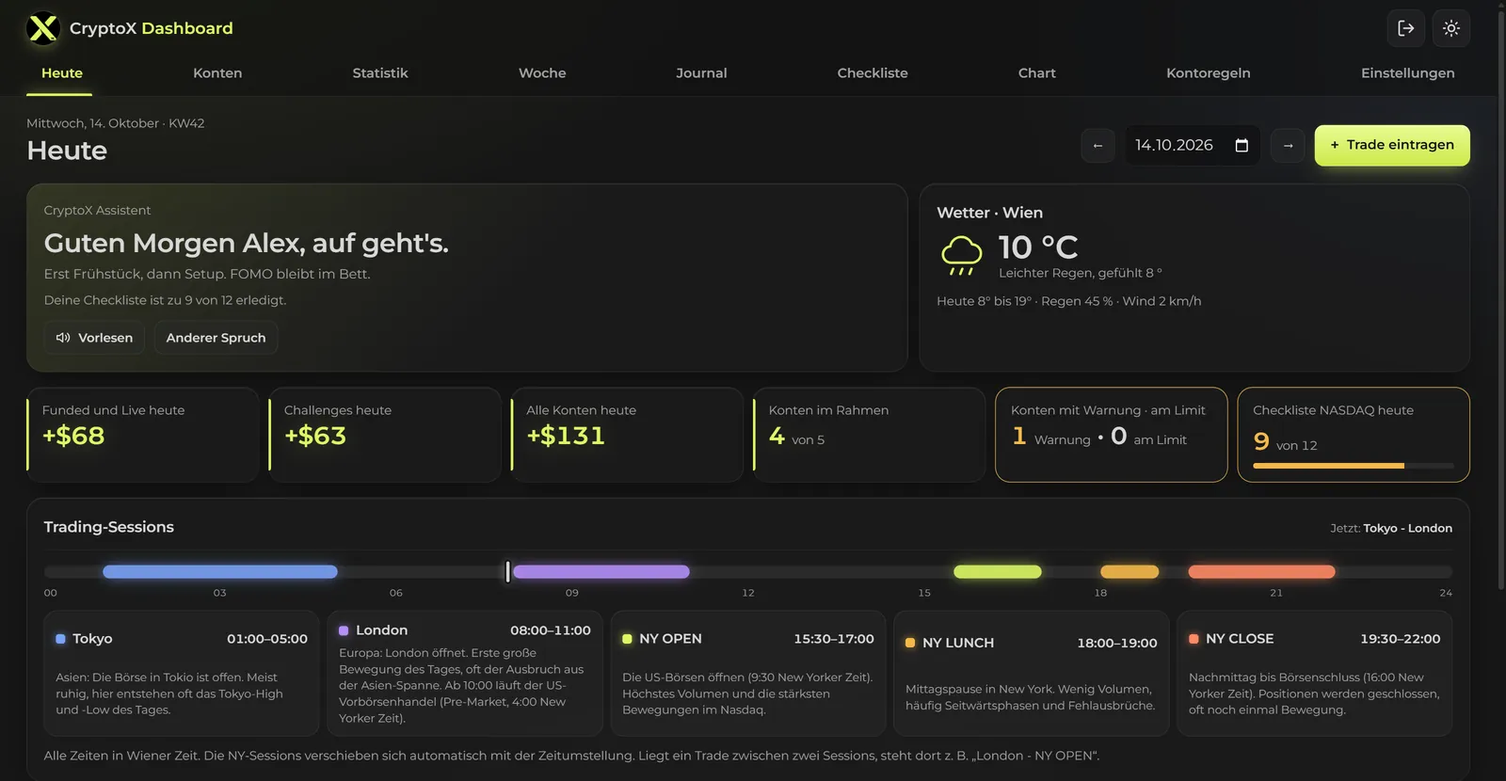
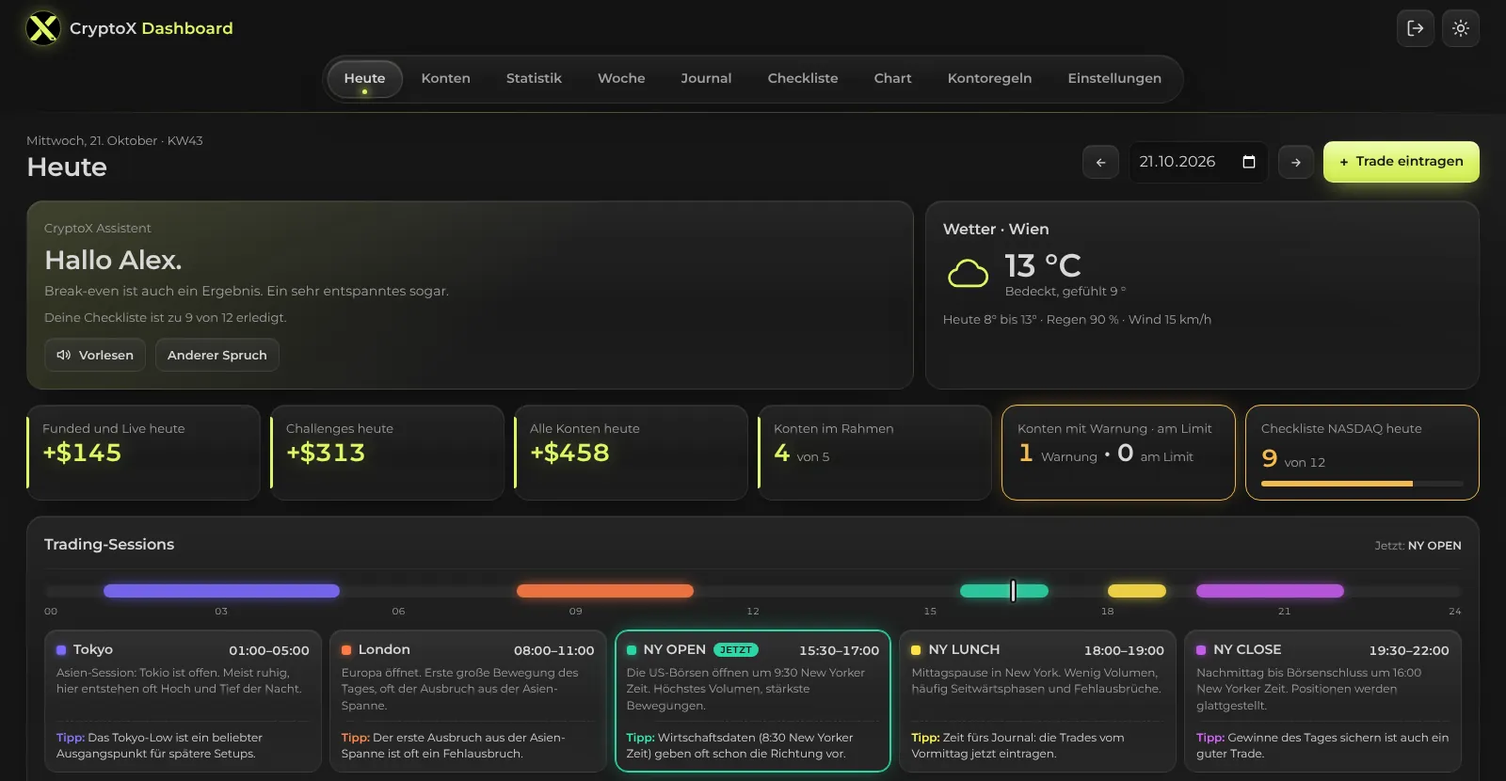
crypto-x.at: Fortschrittsbalken, Hero-Abstand, neue Dashboard-Bilder (#238)
* crypto-x.at: Fortschrittsbalken dünn, Hero mit Abstand, neue Dashboard-Bilder

Fortschrittsbalken wird abgeschnitten statt gestaucht (wie tim-kofler.at #219),
so bleibt der Leuchtschein eine dünne Linie. Das Dashboard-Fenster im Hero ist
rundum abgeschlossen und hat Luft zum Zahlenkasten. Alle Dashboard-Bilder neu
in der Glas-Optik, mit erfundenen Demo-Daten. Passende sizes für die
Handy-Bilder, Datenschutz-Link im Formular unterstrichen.

Claude-Session: https://claude.ai/code/session_01ECftty6yMTiCXhDQWzRpNz

* crypto-x.at: Scroll-Kapsel so breit wie der Inhalt (wie tim-kofler.at #240)

Claude-Session: https://claude.ai/code/session_01ECftty6yMTiCXhDQWzRpNz

---------

diff --git a/index.html b/index.html
@@ -21,8 +21,8 @@
   <link rel="icon" href="/assets/img/favicon.svg" type="image/svg+xml">
   <link rel="preload" href="/assets/fonts/unbounded.woff2" as="font" type="font/woff2" crossorigin>
   <link rel="preload" href="/assets/fonts/manrope.woff2" as="font" type="font/woff2" crossorigin>
-  <link rel="stylesheet" href="/assets/css/style.css?v=a3c770bf">
-  <link rel="stylesheet" href="/assets/css/fx.css?v=b59cf787">
+  <link rel="stylesheet" href="/assets/css/style.css?v=31da12d4">
+  <link rel="stylesheet" href="/assets/css/fx.css?v=bf43237c">
   <script type="application/ld+json">{"@context": "https://schema.org", "@graph": [{"@type": "ProfessionalService", "@id": "https://crypto-x.at/#unternehmen", "name": "Crypto X Solutions", "alternateName": "CryptoX", "url": "https://crypto-x.at/", "image": "https://crypto-x.at/assets/img/og-cryptox.jpg", "logo": "https://crypto-x.at/assets/img/logo-512.png", "email": "tk@crypto-x.at", "telephone": "+4367761773118", "address": {"@type": "PostalAddress", "streetAddress": "Lehen 2", "postalCode": "3281", "addressLocality": "Oberndorf an der Melk", "addressRegion": "Niederösterreich", "addressCountry": "AT"}, "areaServed": {"@type": "Country", "name": "Österreich"}, "founder": {"@id": "https://crypto-x.at/#tim"}, "description": "IT-Dienstleister aus Niederösterreich: Softwareentwicklung, Software-Schulungen und das CryptoX Dashboard für Prop-Firm-Trader.", "knowsAbout": ["Softwareentwicklung", "Prop Trading Tool", "Risikomanagement", "Trading-Software"], "sameAs": ["https://www.instagram.com/crypto_x_solutions/", "https://x.com/Crypto_X_Soln", "https://t.me/Crypto_X_Solutions", "https://g.page/r/CS2eZ1lg7mbtEBI"], "hasMap": "https://g.page/r/CS2eZ1lg7mbtEBI", "hasOfferCatalog": {"@type": "OfferCatalog", "name": "Leistungen", "itemListElement": [{"@type": "Offer", "itemOffered": {"@type": "Service", "name": "Softwareentwicklung", "description": "Individuelle Softwarelösungen wie Rechner, Auswertungen und Dashboards.", "areaServed": "AT"}}, {"@type": "Offer", "itemOffered": {"@type": "Service", "name": "Software-Schulungen", "description": "Schulungen zur technischen Einrichtung und Bedienung von Trading-Software.", "areaServed": "AT"}}, {"@type": "Offer", "itemOffered": {"@type": "Service", "name": "Risiko-Cockpit", "description": "Werkzeug für Risikomanagement im Futures- und Prop-Trading: Tageslimit, Positionsgröße, Checkliste und Trade-Log.", "areaServed": "AT"}}]}}, {"@type": "Person", "@id": "https://crypto-x.at/#tim", "name": "Tim Kofler", "jobTitle": "Softwareentwickler", "url": "https://crypto-x.at/ueber-mich/", "image": "https://crypto-x.at/assets/img/team/tim-portrait.webp", "worksFor": {"@id": "https://crypto-x.at/#unternehmen"}, "sameAs": ["https://www.instagram.com/crypto_x_solutions/", "https://x.com/Crypto_X_Soln", "https://t.me/Crypto_X_Solutions"]}, {"@type": "WebSite", "@id": "https://crypto-x.at/#website", "url": "https://crypto-x.at/", "name": "CryptoX", "inLanguage": "de-AT", "publisher": {"@id": "https://crypto-x.at/#unternehmen"}}]}</script>
 </head>
 <body>
@@ -78,9 +78,9 @@
     <div class="hero__shot reveal">
       <div class="window glass">
         <div class="window__bar"><i></i><i></i><i></i><span>CryptoX Dashboard · Demo-Daten</span></div>
-        <img src="/assets/img/dashboard/heute-1600.webp?v=f98479b8" srcset="/assets/img/dashboard/heute-960.webp?v=8f605e22 960w, /assets/img/dashboard/heute-1600.webp?v=f98479b8 1600w" sizes="(max-width: 1100px) 100vw, 1100px" alt="Tagesüberblick des CryptoX Dashboards mit Ergebnis aller Konten, Warnungen und Trading-Sessions" width="1600" height="830" fetchpriority="high">
+        <img src="/assets/img/dashboard/heute-1600.webp?v=f0af5555" srcset="/assets/img/dashboard/heute-960.webp?v=ab564073 960w, /assets/img/dashboard/heute-1600.webp?v=f0af5555 1600w" sizes="(max-width: 1100px) 100vw, 1100px" alt="Tagesüberblick des CryptoX Dashboards mit Ergebnis aller Konten, Warnungen und Trading-Sessions" width="1600" height="830" fetchpriority="high">
       </div>
-      <div class="hero__phone"><div class="phone"><img src="/assets/img/dashboard/handy-trade-600.webp?v=30f633b7" srcset="/assets/img/dashboard/handy-trade-300.webp?v=2899c89a 300w, /assets/img/dashboard/handy-trade-600.webp?v=30f633b7 600w" sizes="260px" alt="Trade am Smartphone eintragen" width="600" height="1333"></div></div>
+      <div class="hero__phone"><div class="phone"><img src="/assets/img/dashboard/handy-trade-600.webp?v=f23c286d" srcset="/assets/img/dashboard/handy-trade-300.webp?v=88f496b8 300w, /assets/img/dashboard/handy-trade-600.webp?v=f23c286d 600w" sizes="(max-width: 680px) 104px, (max-width: 1100px) 170px, 210px" alt="Trade am Smartphone eintragen" width="600" height="1333"></div></div>
     </div>
   </div>
 </section>
@@ -122,7 +122,7 @@
           <p>Ergebnis aller Konten, Konten im Rahmen oder mit Warnung, Fortschritt der Checkliste und die Trading-Sessions von Tokyo bis NY Close, automatisch an die Zeitumstellung angepasst.</p>
           <ul class="ticks"><li>Kacheln für Funded/Live, Challenges und alle Konten</li><li>Rückblick auf jeden früheren Handelstag</li><li>Wirtschaftskalender, übersetzte Schlagzeilen und Fed-Countdown</li><li>Begrüßung und Warnungen auf Wunsch vorgelesen</li></ul>
         </div>
-        <div class="tour__shot glass"><img src="/assets/img/dashboard/heute-1600.webp?v=f98479b8" srcset="/assets/img/dashboard/heute-960.webp?v=8f605e22 960w, /assets/img/dashboard/heute-1600.webp?v=f98479b8 1600w" sizes="(max-width: 900px) 100vw, 760px" alt="Tagesüberblick mit Ergebnis aller Konten und Trading-Sessions" width="1600" height="830" loading="lazy" decoding="async"></div>
+        <div class="tour__shot glass"><img src="/assets/img/dashboard/heute-1600.webp?v=f0af5555" srcset="/assets/img/dashboard/heute-960.webp?v=ab564073 960w, /assets/img/dashboard/heute-1600.webp?v=f0af5555 1600w" sizes="(max-width: 900px) 100vw, 760px" alt="Tagesüberblick mit Ergebnis aller Konten und Trading-Sessions" width="1600" height="830" loading="lazy" decoding="async"></div>
       </div>
       <div class="tour__panel" role="tabpanel" id="panel-konten" aria-labelledby="tab-konten">
         <div class="tour__text">
@@ -131,7 +131,7 @@
           <p>Eine Karte pro Konto mit Kontostand, Fortschritt und Puffer bis zu jeder Grenze. Warnungen stehen im Klartext da, bevor eine Regel bricht.</p>
           <ul class="ticks"><li>Beliebig viele Konten: Challenge, Funded oder Live</li><li>Messbalken für Tageslimit, Daily und Max Drawdown</li><li>Warnung wie „Nur noch $180 bis zur Drawdown-Grenze“</li><li>Kontostand anpassen, wenn du nicht jeden Trade einträgst</li></ul>
         </div>
-        <div class="tour__shot glass"><img src="/assets/img/dashboard/konten-1600.webp?v=e9aa9c13" srcset="/assets/img/dashboard/konten-960.webp?v=ae97ad49 960w, /assets/img/dashboard/konten-1600.webp?v=e9aa9c13 1600w" sizes="(max-width: 900px) 100vw, 760px" alt="Prop-Firm-Konten mit Drawdown, Tageslimit und Fortschritt" width="1600" height="1006" loading="lazy" decoding="async"></div>
+        <div class="tour__shot glass"><img src="/assets/img/dashboard/konten-1600.webp?v=366833ac" srcset="/assets/img/dashboard/konten-960.webp?v=8c5f8067 960w, /assets/img/dashboard/konten-1600.webp?v=366833ac 1600w" sizes="(max-width: 900px) 100vw, 760px" alt="Prop-Firm-Konten mit Drawdown, Tageslimit und Fortschritt" width="1600" height="1006" loading="lazy" decoding="async"></div>
       </div>
       <div class="tour__panel" role="tabpanel" id="panel-regeln" aria-labelledby="tab-regeln">
         <div class="tour__text">
@@ -140,7 +140,7 @@
           <p>Du hinterlegst für jedes Konto die Regeln, die wirklich gelten. Das Dashboard rechnet sie bei jedem Trade automatisch mit.</p>
           <ul class="ticks"><li>Trailing Drawdown (EOD) mit optionalem Lock oder statisch</li><li>Daily Loss Limit der Firma und eigenes Tageslimit</li><li>Konsistenzregel, Mindest-Handelstage, Gewinnziel und Frist</li><li>Auszahlungsrechner für Funded- und Live-Konten</li></ul>
         </div>
-        <div class="tour__shot glass"><img src="/assets/img/dashboard/regeln-1600.webp?v=0ea13e23" srcset="/assets/img/dashboard/regeln-960.webp?v=7fefca23 960w, /assets/img/dashboard/regeln-1600.webp?v=0ea13e23 1600w" sizes="(max-width: 900px) 100vw, 760px" alt="Regeln eines Kontos einstellen" width="1600" height="1000" loading="lazy" decoding="async"></div>
+        <div class="tour__shot glass"><img src="/assets/img/dashboard/regeln-1600.webp?v=ca87e21c" srcset="/assets/img/dashboard/regeln-960.webp?v=b5657e53 960w, /assets/img/dashboard/regeln-1600.webp?v=ca87e21c 1600w" sizes="(max-width: 900px) 100vw, 760px" alt="Regeln eines Kontos einstellen" width="1600" height="1000" loading="lazy" decoding="async"></div>
       </div>
       <div class="tour__panel" role="tabpanel" id="panel-trade" aria-labelledby="tab-trade">
         <div class="tour__text">
@@ -149,7 +149,7 @@
           <p>Konten anhaken, Kontrakte pro Konto wählen, fertig. Punkte, Ergebnis und Session rechnet das Dashboard selbst aus, jeder Wert lässt sich überschreiben.</p>
           <ul class="ticks"><li>Ein Trade auf beliebig vielen Konten gleichzeitig</li><li>Netto-Ergebnis live über alle gewählten Konten</li><li>13 Instrumente vorinstalliert, eigene beliebig ergänzbar</li><li>Import von Trades als JSON-Datei mit Duplikat-Erkennung</li></ul>
         </div>
-        <div class="tour__shot glass"><img src="/assets/img/dashboard/trade-1600.webp?v=24fc31db" srcset="/assets/img/dashboard/trade-960.webp?v=90048451 960w, /assets/img/dashboard/trade-1600.webp?v=24fc31db 1600w" sizes="(max-width: 900px) 100vw, 760px" alt="Trade auf mehreren Konten gleichzeitig eintragen" width="1600" height="1000" loading="lazy" decoding="async"></div>
+        <div class="tour__shot glass"><img src="/assets/img/dashboard/trade-1600.webp?v=aba2b192" srcset="/assets/img/dashboard/trade-960.webp?v=02d1c67f 960w, /assets/img/dashboard/trade-1600.webp?v=aba2b192 1600w" sizes="(max-width: 900px) 100vw, 760px" alt="Trade auf mehreren Konten gleichzeitig eintragen" width="1600" height="1000" loading="lazy" decoding="async"></div>
       </div>
       <div class="tour__panel" role="tabpanel" id="panel-statistik" aria-labelledby="tab-statistik">
         <div class="tour__text">
@@ -158,7 +158,7 @@
           <p>Kennzahlen pro Konto, für alle Challenges oder alle Funded-Konten, für jeden Zeitraum. Dazu Wochenübersicht und ein Journal mit CSV-Export.</p>
           <ul class="ticks"><li>Trefferquote, Profitfaktor und Erwartungswert pro Trade</li><li>P&amp;L-Kalender als Heatmap mit Wochensumme</li><li>Auswertung nach Entry-Typ, Haltedauer und Session</li><li>Derselbe Trade auf mehreren Konten zählt nur einmal</li></ul>
         </div>
-        <div class="tour__shot glass"><img src="/assets/img/dashboard/statistik-1600.webp?v=3347d251" srcset="/assets/img/dashboard/statistik-960.webp?v=a8933a0b 960w, /assets/img/dashboard/statistik-1600.webp?v=3347d251 1600w" sizes="(max-width: 900px) 100vw, 760px" alt="Trading-Statistik mit Trefferquote, Profitfaktor und P&amp;L-Kalender" width="1600" height="1000" loading="lazy" decoding="async"></div>
+        <div class="tour__shot glass"><img src="/assets/img/dashboard/statistik-1600.webp?v=5b136e12" srcset="/assets/img/dashboard/statistik-960.webp?v=ce16e687 960w, /assets/img/dashboard/statistik-1600.webp?v=5b136e12 1600w" sizes="(max-width: 900px) 100vw, 760px" alt="Trading-Statistik mit Trefferquote, Profitfaktor und P&amp;L-Kalender" width="1600" height="1000" loading="lazy" decoding="async"></div>
       </div>
       <div class="tour__panel" role="tabpanel" id="panel-checkliste" aria-labelledby="tab-checkliste">
         <div class="tour__text">
@@ -167,7 +167,7 @@
           <p>Mehrere Checklisten, zum Beispiel eine pro Markt. Punkte legst du selbst an, benennst sie um, sortierst oder löschst sie.</p>
           <ul class="ticks"><li>Eigene Punkte und Auswahlfelder wie Trend Woche/Tag/H4</li><li>News und Termine des Tages, eigener Zustand, Notizen</li><li>Farbe zeigt den Fortschritt, speichert automatisch</li><li>Verlauf: Plan eingehalten oder Checkliste unvollständig</li></ul>
         </div>
-        <div class="tour__shot glass"><img src="/assets/img/dashboard/checkliste-1600.webp?v=e17dcc1a" srcset="/assets/img/dashboard/checkliste-960.webp?v=6e3bcff3 960w, /assets/img/dashboard/checkliste-1600.webp?v=e17dcc1a 1600w" sizes="(max-width: 900px) 100vw, 760px" alt="Checkliste vor dem Trade mit Verlauf" width="1600" height="1006" loading="lazy" decoding="async"></div>
+        <div class="tour__shot glass"><img src="/assets/img/dashboard/checkliste-1600.webp?v=7eeff7d7" srcset="/assets/img/dashboard/checkliste-960.webp?v=c013c521 960w, /assets/img/dashboard/checkliste-1600.webp?v=7eeff7d7 1600w" sizes="(max-width: 900px) 100vw, 760px" alt="Checkliste vor dem Trade mit Verlauf" width="1600" height="1006" loading="lazy" decoding="async"></div>
       </div>
     </div>
     <p class="note-legal">Bilder aus einer Demo-Installation mit erfundenen Daten. Firmennamen in den Bildern sind Beispiel-Bezeichnungen der Demo-Konten, es besteht keine Partnerschaft. Das Dashboard ist ein Werkzeug zur Selbstkontrolle, <strong>keine Anlageberatung und keine Handelsplattform</strong>: Es führt keine Trades aus und verbindet sich mit keinem Broker.</p>
@@ -188,9 +188,9 @@
       </ul>
     </div>
     <div class="mobile__phones">
-      <div class="reveal"><div class="phone"><img src="/assets/img/dashboard/handy-heute-600.webp?v=f0038aba" srcset="/assets/img/dashboard/handy-heute-300.webp?v=5e0bfaf2 300w, /assets/img/dashboard/handy-heute-600.webp?v=f0038aba 600w" sizes="260px" alt="Tagesüberblick am Smartphone" width="600" height="1333" loading="lazy" decoding="async"></div></div>
-      <div class="reveal"><div class="phone"><img src="/assets/img/dashboard/handy-checkliste-600.webp?v=aa0e7ce4" srcset="/assets/img/dashboard/handy-checkliste-300.webp?v=06558ab9 300w, /assets/img/dashboard/handy-checkliste-600.webp?v=aa0e7ce4 600w" sizes="260px" alt="Checkliste am Smartphone" width="600" height="1333" loading="lazy" decoding="async"></div></div>
-      <div class="reveal"><div class="phone"><img src="/assets/img/dashboard/handy-statistik-600.webp?v=1ddd5401" srcset="/assets/img/dashboard/handy-statistik-300.webp?v=e6ed986a 300w, /assets/img/dashboard/handy-statistik-600.webp?v=1ddd5401 600w" sizes="260px" alt="Statistik am Smartphone" width="600" height="1333" loading="lazy" decoding="async"></div></div>
+      <div class="reveal"><div class="phone"><img src="/assets/img/dashboard/handy-heute-600.webp?v=2c37d0f8" srcset="/assets/img/dashboard/handy-heute-300.webp?v=fa1c8826 300w, /assets/img/dashboard/handy-heute-600.webp?v=2c37d0f8 600w" sizes="(max-width: 680px) 110px, 220px" alt="Tagesüberblick am Smartphone" width="600" height="1333" loading="lazy" decoding="async"></div></div>
+      <div class="reveal"><div class="phone"><img src="/assets/img/dashboard/handy-checkliste-600.webp?v=fabc8939" srcset="/assets/img/dashboard/handy-checkliste-300.webp?v=07abf834 300w, /assets/img/dashboard/handy-checkliste-600.webp?v=fabc8939 600w" sizes="(max-width: 680px) 110px, 220px" alt="Checkliste am Smartphone" width="600" height="1333" loading="lazy" decoding="async"></div></div>
+      <div class="reveal"><div class="phone"><img src="/assets/img/dashboard/handy-statistik-600.webp?v=dc71214f" srcset="/assets/img/dashboard/handy-statistik-300.webp?v=21d677b0 300w, /assets/img/dashboard/handy-statistik-600.webp?v=dc71214f 600w" sizes="(max-width: 680px) 110px, 220px" alt="Statistik am Smartphone" width="600" height="1333" loading="lazy" decoding="async"></div></div>
     </div>
   </div>
 </section>
@@ -509,7 +509,7 @@
 </footer>
 
 <script src="/assets/js/main.js?v=8c3680ab"></script>
-<script src="/assets/js/fx.js?v=e97bb7f9"></script>
+<script src="/assets/js/fx.js?v=1e196b98"></script>
 <script src="/assets/js/forms.js?v=184c4983"></script>
 <script type="module" src="/assets/js/x3d.js?v=9a384165"></script>
 </body>

diff --git a/prop-trading-tool/index.html b/prop-trading-tool/index.html
@@ -21,8 +21,8 @@
   <link rel="icon" href="/assets/img/favicon.svg" type="image/svg+xml">
   <link rel="preload" href="/assets/fonts/unbounded.woff2" as="font" type="font/woff2" crossorigin>
   <link rel="preload" href="/assets/fonts/manrope.woff2" as="font" type="font/woff2" crossorigin>
-  <link rel="stylesheet" href="/assets/css/style.css?v=a3c770bf">
-  <link rel="stylesheet" href="/assets/css/fx.css?v=b59cf787">
+  <link rel="stylesheet" href="/assets/css/style.css?v=31da12d4">
+  <link rel="stylesheet" href="/assets/css/fx.css?v=bf43237c">
   <script type="application/ld+json">{"@context": "https://schema.org", "@graph": [{"@type": "SoftwareApplication", "name": "CryptoX Risiko-Cockpit", "applicationCategory": "BusinessApplication", "operatingSystem": "Web-Browser", "url": "https://crypto-x.at/prop-trading-tool/", "author": {"@id": "https://crypto-x.at/#unternehmen"}, "description": "Dashboard für Prop-Firm-Trader: rechnet für beliebig viele Konten Drawdown (EOD oder statisch), Tageslimit, Konsistenzregel, Mindest-Handelstage, Gewinnziel und Auszahlung mit, mit Trading-Journal, Statistik, Checklisten und Wirtschaftskalender. Live-Demo mit Tageslimit, Positionsgrößen-Rechner, Checkliste und Trade-Log."}, {"@type": "FAQPage", "mainEntity": [{"@type": "Question", "name": "Was ist das Risiko-Cockpit?", "acceptedAnswer": {"@type": "Answer", "text": "Ein Werkzeug im Browser, das dein Tageslimit, deine Positionsgröße, eine Checkliste vor dem Einstieg und dein Trade-Log in einer Ansicht zeigt. Es rechnet ausschließlich mit deinen eigenen Eingaben."}}, {"@type": "Question", "name": "Gibt das Tool Handelssignale oder Empfehlungen?", "acceptedAnswer": {"@type": "Answer", "text": "Nein. Das Cockpit gibt keine Signale, keine Empfehlungen und keine Prognosen. Es hilft dir nur, deine eigenen Regeln und die Regeln deines Kontos im Blick zu behalten. Die Entscheidungen triffst du selbst."}}, {"@type": "Question", "name": "Für welche Konten und Instrumente ist es gedacht?", "acceptedAnswer": {"@type": "Answer", "text": "Für Futures-Konten mit festen Regeln wie Tagesverlustlimit und Drawdown, wie sie bei Prop-Firm-Evaluierungen üblich sind. Der Rechner kennt die Punktwerte von MNQ, NQ, MES und ES."}}, {"@type": "Question", "name": "Muss ich mich anmelden oder etwas installieren?", "acceptedAnswer": {"@type": "Answer", "text": "Für die Live-Demo nicht. Sie läuft direkt im Browser, am Computer und am Handy. Beta-Tester erhalten einen eigenen Zugang zum vollen Dashboard."}}, {"@type": "Question", "name": "Wo werden meine Daten gespeichert?", "acceptedAnswer": {"@type": "Answer", "text": "In der Live-Demo nur im lokalen Speicher deines Browsers. Es wird nichts an CryptoX übertragen. Details stehen in der Datenschutzerklärung."}}, {"@type": "Question", "name": "Wie werde ich Beta-Tester?", "acceptedAnswer": {"@type": "Answer", "text": "Melde dich per E-Mail oder Telegram, am besten mit deiner Plattform und deinem Erfahrungsstand. Als Beta-Tester nutzt du das volle Dashboard und gibst Feedback, was funktioniert und was fehlt."}}]}]}</script>
 </head>
 <body>
@@ -135,7 +135,7 @@
       </div>
       <p>Die Live-Demo zeigt die Grundidee. Das volle CryptoX Dashboard rechnet für beliebig viele Prop-Konten Drawdown, Tageslimit, Konsistenzregel, Handelstage und Auszahlung mit und warnt, bevor eine Regel bricht. Konten, Regeln, Checklisten und Instrumente stellst du selbst ein.</p>
     </div>
-    <div class="tour__shot glass" style="margin-bottom:40px"><img src="/assets/img/dashboard/konten-1600.webp?v=e9aa9c13" srcset="/assets/img/dashboard/konten-960.webp?v=ae97ad49 960w, /assets/img/dashboard/konten-1600.webp?v=e9aa9c13 1600w" sizes="(max-width: 1100px) 100vw, 1100px" alt="Prop-Firm-Konten mit Drawdown, Tageslimit und Fortschritt im CryptoX Dashboard" width="1600" height="1006" loading="lazy" decoding="async"></div>
+    <div class="tour__shot glass" style="margin-bottom:40px"><img src="/assets/img/dashboard/konten-1600.webp?v=366833ac" srcset="/assets/img/dashboard/konten-960.webp?v=8c5f8067 960w, /assets/img/dashboard/konten-1600.webp?v=366833ac 1600w" sizes="(max-width: 1100px) 100vw, 1100px" alt="Prop-Firm-Konten mit Drawdown, Tageslimit und Fortschritt im CryptoX Dashboard" width="1600" height="1006" loading="lazy" decoding="async"></div>
     <div class="modules">
       <div class="module"><b>Regel-Engine</b><span>Trailing (EOD) oder statischer Drawdown, Daily Loss, Konsistenz, Handelstage, Gewinnziel und Frist je Konto</span></div>
       <div class="module"><b>Beliebig viele Konten</b><span>Challenge, Funded und Live mit Ampel und Warnungen im Klartext</span></div>
@@ -256,6 +256,6 @@
 </footer>
 
 <script src="/assets/js/main.js?v=8c3680ab"></script>
-<script src="/assets/js/fx.js?v=e97bb7f9"></script>
+<script src="/assets/js/fx.js?v=1e196b98"></script>
 </body>
 </html>

diff --git a/assets/css/style.css b/assets/css/style.css
@@ -107,7 +107,7 @@ p { margin: 0 0 18px; }
 }
 
 /* Hero */
-.hero { position: relative; padding: 110px 0 0; overflow: hidden; }
+.hero { position: relative; padding: 110px 0 72px; overflow: hidden; }
 .hero__inner { position: relative; text-align: center; }
 .hero__badge {
   display: inline-flex; align-items: center; gap: 10px; padding: 6px 14px 6px 6px; border-radius: 999px;
@@ -131,7 +131,7 @@ p { margin: 0 0 18px; }
 .window__bar i { width: 10px; height: 10px; border-radius: 50%; background: var(--line-2); }
 .window__bar i:first-child { background: var(--lime); }
 .window__bar span { margin-left: 10px; font-family: var(--mono); font-size: .75rem; color: var(--muted); }
-.hero__shot .window { border-bottom: 0; border-radius: 18px 18px 0 0; }
+.hero__shot .window { border-radius: 18px; }
 
 /* Zahlenleiste */
 .figures { display: grid; grid-template-columns: repeat(4, 1fr); border-top: 1px solid var(--line); border-bottom: 1px solid var(--line); }
@@ -286,7 +286,7 @@ p { margin: 0 0 18px; }
   body { font-size: 16px; }
   .container { padding: 0 16px; }
   .section { padding: 80px 0; }
-  .hero { padding-top: 64px; }
+  .hero { padding-top: 64px; padding-bottom: 44px; }
   .hero__shot { margin-top: 56px; }
   .xgrid { grid-template-columns: 1fr; }
   .xcell { min-height: 0; padding: 36px 24px; border-right: 0 !important; border-bottom: 1px solid var(--line); }
@@ -372,7 +372,7 @@ main p a:not(.btn), main li a:not(.btn), .faq__item p a, .glance dd a { text-dec
 .glass img { display: block; width: 100%; height: auto; }
 
 /* Hero: Fenster + schwebendes Handy */
-.hero__shot .window.glass { border-radius: 18px 18px 0 0; border-bottom: 0; }
+.hero__shot .window.glass { border-radius: 18px; }
 .hero__phone { position: absolute; right: -3%; bottom: 3%; width: 210px; z-index: 3; animation: float 7s ease-in-out infinite; }
 @keyframes float { 0%, 100% { transform: translateY(0) rotate(-2deg); } 50% { transform: translateY(-14px) rotate(-1deg); } }
 
@@ -480,6 +480,7 @@ main p a:not(.btn), main li a:not(.btn), .faq__item p a, .glance dd a { text-dec
 .form ::placeholder { color: #6f6f6f; }
 .form__check { display: grid; grid-template-columns: 22px 1fr; gap: 12px; align-items: start; font-size: .92rem; color: var(--muted); line-height: 1.55; cursor: pointer; }
 .form__check input { width: 20px; height: 20px; margin: 2px 0 0; accent-color: var(--lime); cursor: pointer; }
+.form__check a { text-decoration: underline; text-underline-offset: 3px; }
 .form .btn { justify-self: start; margin-top: 6px; }
 .form .btn:disabled { opacity: .6; cursor: wait; }
 .form__status { margin: 0; padding: 12px 16px; border-radius: 12px; font-size: .95rem; }
@@ -551,7 +552,7 @@ main p a:not(.btn), main li a:not(.btn), .faq__item p a, .glance dd a { text-dec
   /* Gleiche Gesamthöhe wie oben (76px), damit beim Umschalten nichts springt */
   html.js .header.is-pill { background: transparent; border-bottom-color: transparent; -webkit-backdrop-filter: none; backdrop-filter: none; pointer-events: none; }
   html.js .header.is-pill::after { opacity: 0; }
-  .header.is-pill .header__inner { pointer-events: auto; height: 58px; max-width: 1000px; margin: 10px auto 8px; padding: 0 8px 0 18px;
+  .header.is-pill .header__inner { pointer-events: auto; height: 58px; width: calc(100% - 64px); max-width: calc(var(--max) - 64px); margin: 10px auto 8px; padding: 0 8px 0 18px;
     background: linear-gradient(180deg, rgba(255,255,255,.07), rgba(255,255,255,.015)), rgba(15,15,15,.9); -webkit-backdrop-filter: blur(16px) saturate(1.4); backdrop-filter: blur(16px) saturate(1.4);
     border-color: rgba(220,247,99,.32); box-shadow: inset 0 1px 0 rgba(255,255,255,.1), 0 18px 50px rgba(0,0,0,.6), 0 0 30px rgba(220,247,99,.12);
     transform: translateY(10px); animation: x-pill-in .6s cubic-bezier(.2,.8,.2,1); }

diff --git a/softwareentwicklung/index.html b/softwareentwicklung/index.html
@@ -21,8 +21,8 @@
   <link rel="icon" href="/assets/img/favicon.svg" type="image/svg+xml">
   <link rel="preload" href="/assets/fonts/unbounded.woff2" as="font" type="font/woff2" crossorigin>
   <link rel="preload" href="/assets/fonts/manrope.woff2" as="font" type="font/woff2" crossorigin>
-  <link rel="stylesheet" href="/assets/css/style.css?v=a3c770bf">
-  <link rel="stylesheet" href="/assets/css/fx.css?v=b59cf787">
+  <link rel="stylesheet" href="/assets/css/style.css?v=31da12d4">
+  <link rel="stylesheet" href="/assets/css/fx.css?v=bf43237c">
   <script type="application/ld+json">{"@context": "https://schema.org", "@graph": [{"@type": "Service", "name": "Softwareentwicklung und Software-Schulungen", "description": "Individuelle Softwarelösungen, Rechner, Dashboards und Schulungen zur Bedienung von Trading-Software.", "url": "https://crypto-x.at/softwareentwicklung/", "provider": {"@id": "https://crypto-x.at/#unternehmen"}, "areaServed": {"@type": "Country", "name": "Österreich"}}, {"@type": "FAQPage", "mainEntity": [{"@type": "Question", "name": "Welche Art von Software entwickelst du?", "acceptedAnswer": {"@type": "Answer", "text": "Vor allem kleinere, maßgeschneiderte Werkzeuge: Rechner, Auswertungen, Dashboards und Web-Anwendungen, die im Browser laufen. Das Risiko-Cockpit ist ein Beispiel dafür."}}, {"@type": "Question", "name": "Was kostet eine individuelle Softwarelösung?", "acceptedAnswer": {"@type": "Answer", "text": "Das hängt stark vom Umfang ab. Beschreib mir kurz, welches Problem die Software lösen soll, dann bekommst du eine Einschätzung und ein unverbindliches Angebot."}}, {"@type": "Question", "name": "Was sind Software-Schulungen?", "acceptedAnswer": {"@type": "Answer", "text": "Ich zeige dir oder deinem Team, wie Software technisch eingerichtet und sicher bedient wird, zum Beispiel Trading-Plattformen mit Arbeitsbereichen, Charts und Order-Masken. Die Schulungen sind rein technisch: Es gibt keine Anlage- oder Handelsempfehlungen."}}]}]}</script>
 </head>
 <body>
@@ -196,6 +196,6 @@
 </footer>
 
 <script src="/assets/js/main.js?v=8c3680ab"></script>
-<script src="/assets/js/fx.js?v=e97bb7f9"></script>
+<script src="/assets/js/fx.js?v=1e196b98"></script>
 </body>
 </html>

diff --git a/2025/03/19/kryptowaehrungen-fuer-einsteiger-ein-kompletter-leitfaden-fuer-den-einstieg/index.html b/2025/03/19/kryptowaehrungen-fuer-einsteiger-ein-kompletter-leitfaden-fuer-den-einstieg/index.html
@@ -21,8 +21,8 @@
   <link rel="icon" href="/assets/img/favicon.svg" type="image/svg+xml">
   <link rel="preload" href="/assets/fonts/unbounded.woff2" as="font" type="font/woff2" crossorigin>
   <link rel="preload" href="/assets/fonts/manrope.woff2" as="font" type="font/woff2" crossorigin>
-  <link rel="stylesheet" href="/assets/css/style.css?v=a3c770bf">
-  <link rel="stylesheet" href="/assets/css/fx.css?v=b59cf787">
+  <link rel="stylesheet" href="/assets/css/style.css?v=31da12d4">
+  <link rel="stylesheet" href="/assets/css/fx.css?v=bf43237c">
   <script type="application/ld+json">{"@context": "https://schema.org", "@type": "Article", "headline": "Kryptowährungen für Einsteiger: Ein kompletter Leitfaden", "datePublished": "2025-03-19", "image": "https://crypto-x.at/assets/img/krypto-einsteiger.webp", "inLanguage": "de-AT", "mainEntityOfPage": "https://crypto-x.at/2025/03/19/kryptowaehrungen-fuer-einsteiger-ein-kompletter-leitfaden-fuer-den-einstieg/", "author": {"@type": "Person", "name": "Tim Kofler", "url": "https://crypto-x.at/ueber-mich/"}, "publisher": {"@type": "Organization", "name": "Crypto X Solutions", "url": "https://crypto-x.at/"}}</script>
 </head>
 <body>
@@ -180,6 +180,6 @@
 </footer>
 
 <script src="/assets/js/main.js?v=8c3680ab"></script>
-<script src="/assets/js/fx.js?v=e97bb7f9"></script>
+<script src="/assets/js/fx.js?v=1e196b98"></script>
 </body>
 </html>

diff --git a/2025/01/27/die-bekanntesten-trading-strategien/index.html b/2025/01/27/die-bekanntesten-trading-strategien/index.html
@@ -21,8 +21,8 @@
   <link rel="icon" href="/assets/img/favicon.svg" type="image/svg+xml">
   <link rel="preload" href="/assets/fonts/unbounded.woff2" as="font" type="font/woff2" crossorigin>
   <link rel="preload" href="/assets/fonts/manrope.woff2" as="font" type="font/woff2" crossorigin>
-  <link rel="stylesheet" href="/assets/css/style.css?v=a3c770bf">
-  <link rel="stylesheet" href="/assets/css/fx.css?v=b59cf787">
+  <link rel="stylesheet" href="/assets/css/style.css?v=31da12d4">
+  <link rel="stylesheet" href="/assets/css/fx.css?v=bf43237c">
   <script type="application/ld+json">{"@context": "https://schema.org", "@type": "Article", "headline": "Die bekanntesten Trading-Strategien: Day Trading, Swing Trading und HODL", "datePublished": "2025-01-27", "image": "https://crypto-x.at/assets/img/trading-strategien.webp", "inLanguage": "de-AT", "mainEntityOfPage": "https://crypto-x.at/2025/01/27/die-bekanntesten-trading-strategien/", "author": {"@type": "Person", "name": "Tim Kofler", "url": "https://crypto-x.at/ueber-mich/"}, "publisher": {"@type": "Organization", "name": "Crypto X Solutions", "url": "https://crypto-x.at/"}}</script>
 </head>
 <body>
@@ -174,6 +174,6 @@
 </footer>
 
 <script src="/assets/js/main.js?v=8c3680ab"></script>
-<script src="/assets/js/fx.js?v=e97bb7f9"></script>
+<script src="/assets/js/fx.js?v=1e196b98"></script>
 </body>
 </html>

diff --git a/2025/03/19/warum-kryptowaehrungen-die-zukunft-der-finanzwelt-sind/index.html b/2025/03/19/warum-kryptowaehrungen-die-zukunft-der-finanzwelt-sind/index.html
@@ -21,8 +21,8 @@
   <link rel="icon" href="/assets/img/favicon.svg" type="image/svg+xml">
   <link rel="preload" href="/assets/fonts/unbounded.woff2" as="font" type="font/woff2" crossorigin>
   <link rel="preload" href="/assets/fonts/manrope.woff2" as="font" type="font/woff2" crossorigin>
-  <link rel="stylesheet" href="/assets/css/style.css?v=a3c770bf">
-  <link rel="stylesheet" href="/assets/css/fx.css?v=b59cf787">
+  <link rel="stylesheet" href="/assets/css/style.css?v=31da12d4">
+  <link rel="stylesheet" href="/assets/css/fx.css?v=bf43237c">
   <script type="application/ld+json">{"@context": "https://schema.org", "@type": "Article", "headline": "Warum Kryptowährungen die Finanzwelt verändern", "datePublished": "2025-03-19", "image": "https://crypto-x.at/assets/img/krypto-netzwerk.webp", "inLanguage": "de-AT", "mainEntityOfPage": "https://crypto-x.at/2025/03/19/warum-kryptowaehrungen-die-zukunft-der-finanzwelt-sind/", "author": {"@type": "Person", "name": "Tim Kofler", "url": "https://crypto-x.at/ueber-mich/"}, "publisher": {"@type": "Organization", "name": "Crypto X Solutions", "url": "https://crypto-x.at/"}}</script>
 </head>
 <body>
@@ -163,6 +163,6 @@
 </footer>
 
 <script src="/assets/js/main.js?v=8c3680ab"></script>
-<script src="/assets/js/fx.js?v=e97bb7f9"></script>
+<script src="/assets/js/fx.js?v=1e196b98"></script>
 </body>
 </html>

diff --git a/wissen/prop-trading-einfach-erklaert/index.html b/wissen/prop-trading-einfach-erklaert/index.html
@@ -21,8 +21,8 @@
   <link rel="icon" href="/assets/img/favicon.svg" type="image/svg+xml">
   <link rel="preload" href="/assets/fonts/unbounded.woff2" as="font" type="font/woff2" crossorigin>
   <link rel="preload" href="/assets/fonts/manrope.woff2" as="font" type="font/woff2" crossorigin>
-  <link rel="stylesheet" href="/assets/css/style.css?v=a3c770bf">
-  <link rel="stylesheet" href="/assets/css/fx.css?v=b59cf787">
+  <link rel="stylesheet" href="/assets/css/style.css?v=31da12d4">
+  <link rel="stylesheet" href="/assets/css/fx.css?v=bf43237c">
   <script type="application/ld+json">{"@context": "https://schema.org", "@type": "Article", "headline": "Prop Trading einfach erklärt: Challenge, Regeln und Risiken", "datePublished": "2026-10-13", "image": "https://crypto-x.at/assets/img/prop-trading.webp", "inLanguage": "de-AT", "mainEntityOfPage": "https://crypto-x.at/wissen/prop-trading-einfach-erklaert/", "author": {"@type": "Person", "name": "Tim Kofler", "url": "https://crypto-x.at/ueber-mich/"}, "publisher": {"@type": "Organization", "name": "Crypto X Solutions", "url": "https://crypto-x.at/"}}</script>
 </head>
 <body>
@@ -194,6 +194,6 @@
 </footer>
 
 <script src="/assets/js/main.js?v=8c3680ab"></script>
-<script src="/assets/js/fx.js?v=e97bb7f9"></script>
+<script src="/assets/js/fx.js?v=1e196b98"></script>
 </body>
 </html>

diff --git a/assets/css/fx.css b/assets/css/fx.css
@@ -59,8 +59,9 @@ h2 .lime, h3 .lime { background: linear-gradient(100deg, #dcf763 0%, #ecff9e 55%
 @keyframes fx-marquee { to { transform: translateX(-50%); } }
 
 /* Lesefortschritt oben */
-.fx-progress { position: fixed; top: 0; left: 0; height: 3px; width: 100%; z-index: 100; transform-origin: 0 50%; transform: scaleX(0);
-  background: linear-gradient(90deg, #b9d94a, #dcf763 60%, #f3ffb5); box-shadow: 0 0 12px rgba(220,247,99,.55); pointer-events: none; }
+/* Abschneiden statt Stauchen (clip-path setzt fx.js): mit scaleX wurde der Leuchtschein am Anfang zu einem hohen Fleck */
+.fx-progress { position: fixed; top: 0; left: 0; height: 3px; width: 100%; z-index: 100; clip-path: inset(0 100% -14px 0);
+  background: linear-gradient(90deg, #b9d94a, #dcf763 60%, #f3ffb5); box-shadow: 0 2px 10px rgba(220,247,99,.5); pointer-events: none; }
 
 ::selection { background: var(--lime); color: var(--ink); }
 

diff --git a/cockpit/index.html b/cockpit/index.html
@@ -21,8 +21,8 @@
   <link rel="icon" href="/assets/img/favicon.svg" type="image/svg+xml">
   <link rel="preload" href="/assets/fonts/unbounded.woff2" as="font" type="font/woff2" crossorigin>
   <link rel="preload" href="/assets/fonts/manrope.woff2" as="font" type="font/woff2" crossorigin>
-  <link rel="stylesheet" href="/assets/css/style.css?v=a3c770bf">
-  <link rel="stylesheet" href="/assets/css/fx.css?v=b59cf787">
+  <link rel="stylesheet" href="/assets/css/style.css?v=31da12d4">
+  <link rel="stylesheet" href="/assets/css/fx.css?v=bf43237c">
   <link rel="stylesheet" href="/assets/css/cockpit.css?v=b4f16ef9">
 </head>
 <body>
@@ -217,7 +217,7 @@
 </footer>
 
 <script src="/assets/js/main.js?v=8c3680ab"></script>
-<script src="/assets/js/fx.js?v=e97bb7f9"></script>
+<script src="/assets/js/fx.js?v=1e196b98"></script>
 <script src="/assets/js/cockpit.js?v=d046e74b"></script>
 </body>
 </html>

diff --git a/beta/index.html b/beta/index.html
@@ -21,8 +21,8 @@
   <link rel="icon" href="/assets/img/favicon.svg" type="image/svg+xml">
   <link rel="preload" href="/assets/fonts/unbounded.woff2" as="font" type="font/woff2" crossorigin>
   <link rel="preload" href="/assets/fonts/manrope.woff2" as="font" type="font/woff2" crossorigin>
-  <link rel="stylesheet" href="/assets/css/style.css?v=a3c770bf">
-  <link rel="stylesheet" href="/assets/css/fx.css?v=b59cf787">
+  <link rel="stylesheet" href="/assets/css/style.css?v=31da12d4">
+  <link rel="stylesheet" href="/assets/css/fx.css?v=bf43237c">
 </head>
 <body>
 
@@ -163,7 +163,7 @@
 </footer>
 
 <script src="/assets/js/main.js?v=8c3680ab"></script>
-<script src="/assets/js/fx.js?v=e97bb7f9"></script>
+<script src="/assets/js/fx.js?v=1e196b98"></script>
 <script src="/assets/js/forms.js?v=184c4983"></script>
 </body>
 </html>

diff --git a/newsletter/index.html b/newsletter/index.html
@@ -21,8 +21,8 @@
   <link rel="icon" href="/assets/img/favicon.svg" type="image/svg+xml">
   <link rel="preload" href="/assets/fonts/unbounded.woff2" as="font" type="font/woff2" crossorigin>
   <link rel="preload" href="/assets/fonts/manrope.woff2" as="font" type="font/woff2" crossorigin>
-  <link rel="stylesheet" href="/assets/css/style.css?v=a3c770bf">
-  <link rel="stylesheet" href="/assets/css/fx.css?v=b59cf787">
+  <link rel="stylesheet" href="/assets/css/style.css?v=31da12d4">
+  <link rel="stylesheet" href="/assets/css/fx.css?v=bf43237c">
 </head>
 <body>
 
@@ -149,7 +149,7 @@
 </footer>
 
 <script src="/assets/js/main.js?v=8c3680ab"></script>
-<script src="/assets/js/fx.js?v=e97bb7f9"></script>
+<script src="/assets/js/fx.js?v=1e196b98"></script>
 <script src="/assets/js/forms.js?v=184c4983"></script>
 </body>
 </html>
